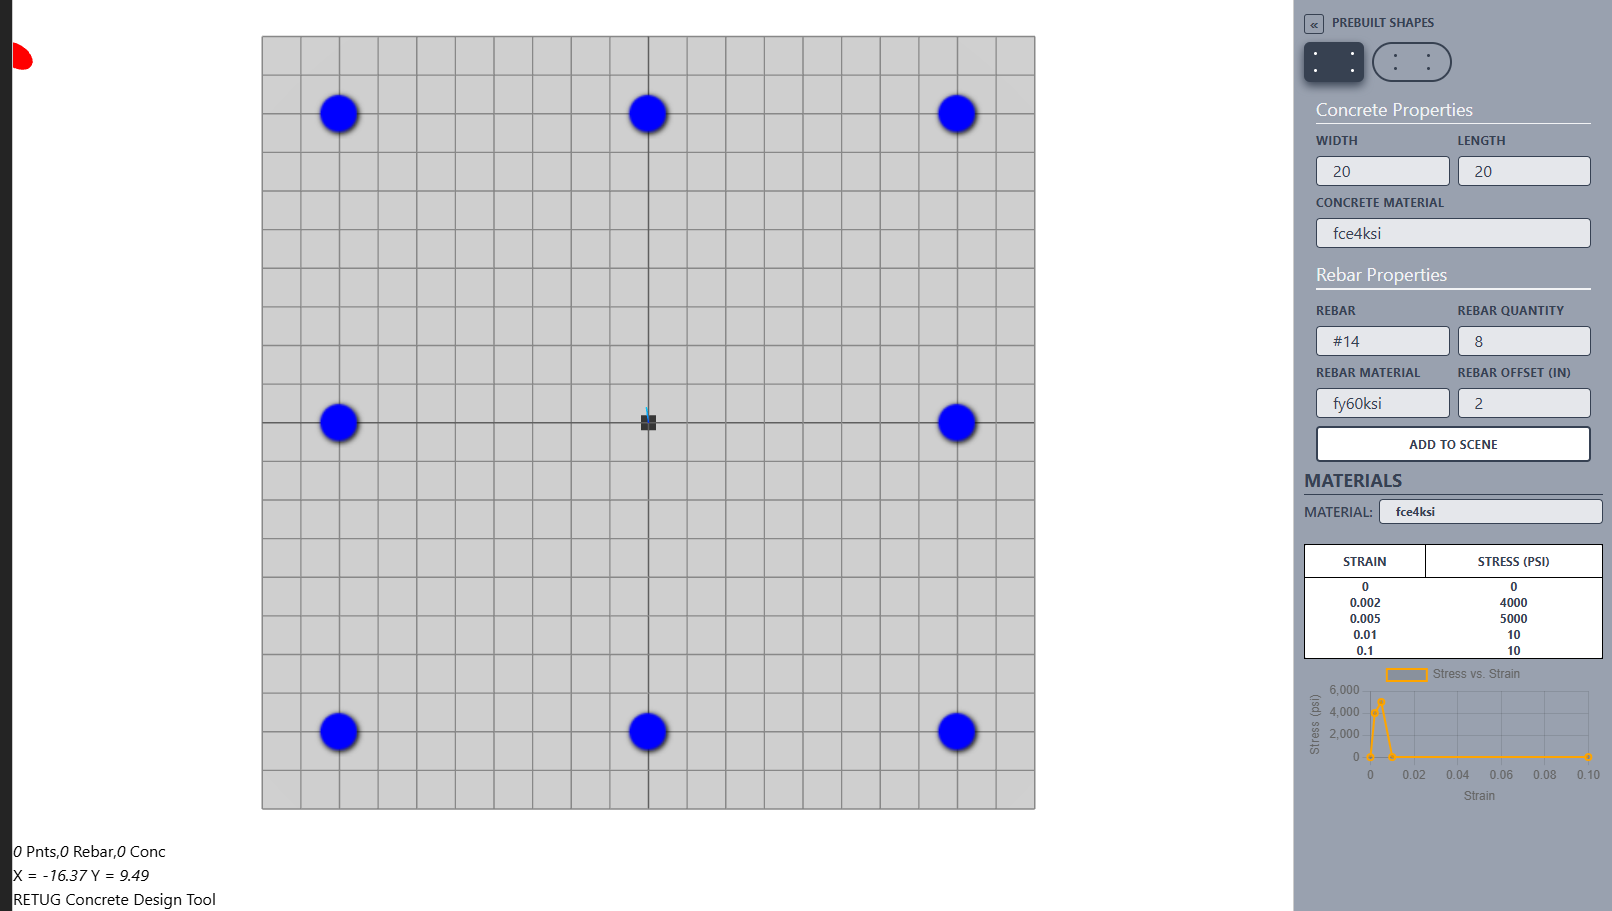
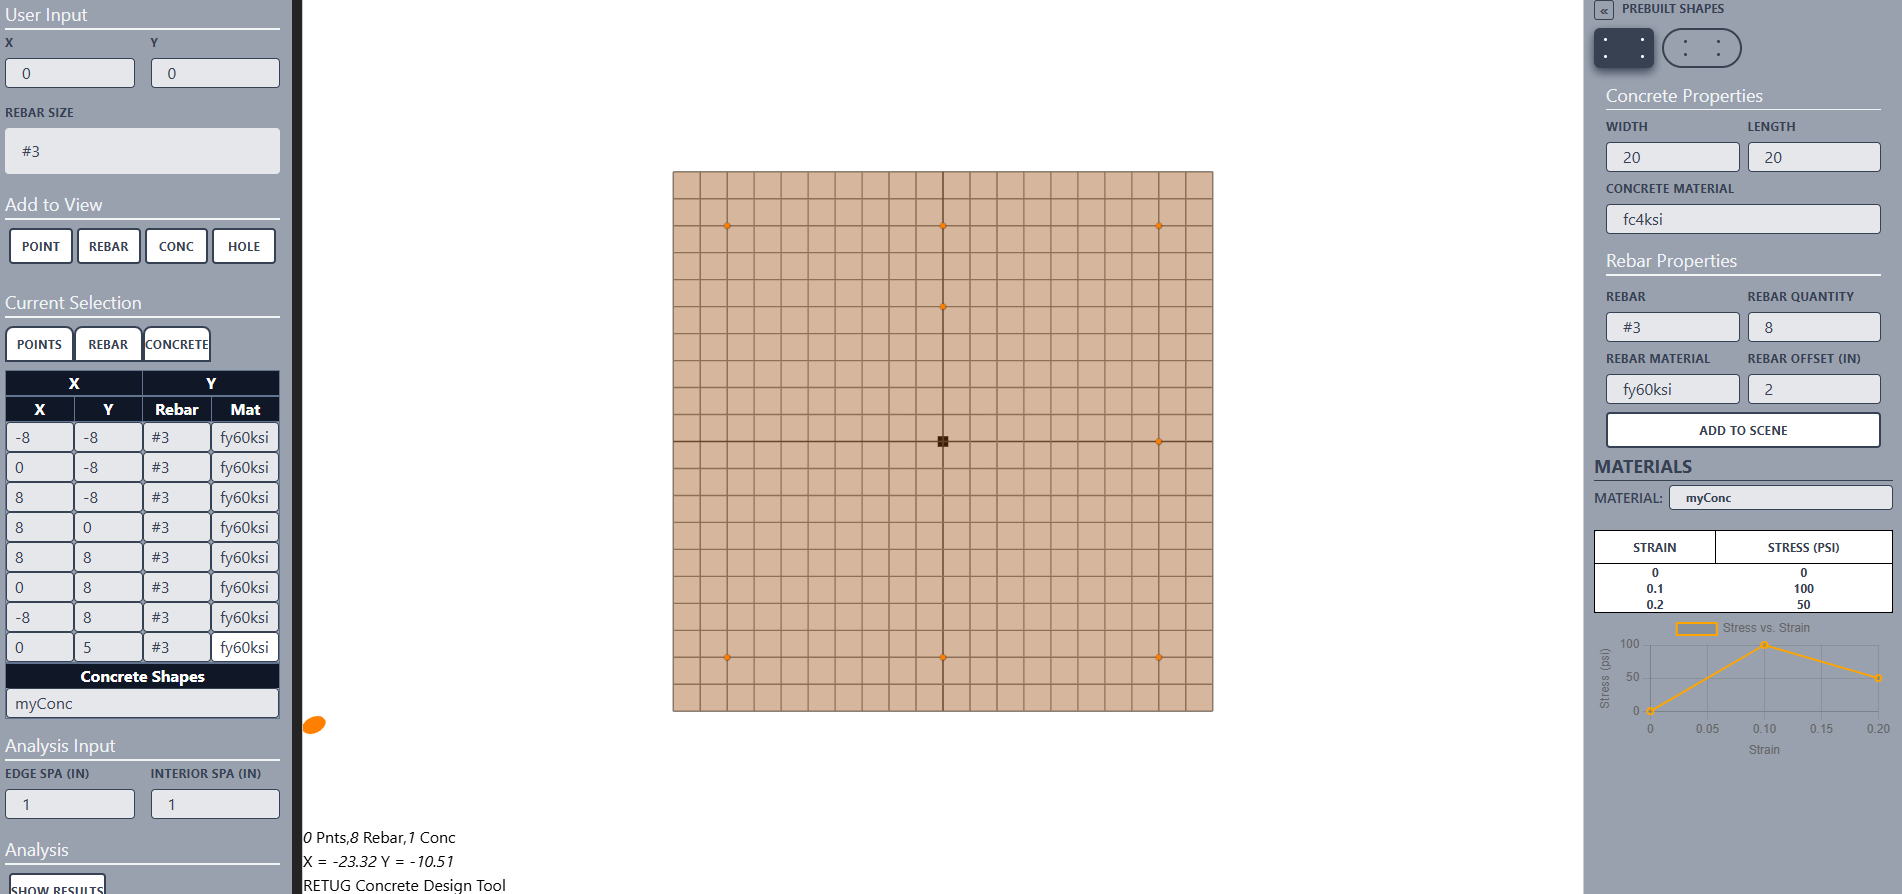
adding materials to rebar and concrete

diff --git a/src/threeJSscenefunctions.js b/src/threeJSscenefunctions.js
@@ -157,10 +157,6 @@ export function addRebar(x, y, barSize, scene, sprite) {
 
     // ✅ Add to the scene
     scene.add(tempDot);
-
-    console.log(`Rebar added at (${x}, ${y}) with bar size #${barSize} and material ${selectedMaterialName}`);
-    console.log("Material Properties:", materialObject);
-
     return tempDot; // ✅ Return the new rebar object
 }
 
@@ -253,7 +249,13 @@ export function setupMouseInteractions(threeJSDiv) {
     function resetSelections() {
         for (const pnt of allSelectedPnts) pnt.material.color.set(0x00FF00);
         for (const pnt of allSelectedRebar) pnt.material.color.setHSL(0.0, 0.0, 0.5);
-        for (const pnt of allSelectedConc) pnt.material.color.set(0xE5E5E5);
+        
+        for (const concShape of allSelectedConc) {
+            console.log('your concrete shape is a instance of concrete shape?', concShape instanceof ConcShape )
+            if (concShape instanceof ConcShape && concShape.mesh && concShape.mesh.material) { // ✅ Ensure valid `ConcShape`
+                concShape.mesh.material.color.set(0xE5E5E5);
+            }
+        }
         allSelectedPnts = [];
         allSelectedRebar = [];
         allSelectedConc = [];
@@ -266,8 +268,13 @@ export function setupMouseInteractions(threeJSDiv) {
                 obj.material.color.set(0xFF7F00);
             } else if (obj.isRebar === true && obj.constructor.name === "Points") {
                 obj.material.color.set(0xFF7F00);
-            } else if (obj.constructor.name === "Mesh") {
+            }
+            else if (obj.constructor.name === "Mesh") {
                 obj.material.color.set(0xFF7F00);
+
+            } 
+            else if (obj instanceof ConcShape) {
+                obj.mesh.material.color.set(0xFF7F00);
             }
         }
     }
@@ -278,8 +285,11 @@ export function setupMouseInteractions(threeJSDiv) {
                 allSelectedPnts.push(obj);
             } else if (obj.isRebar === true && obj.constructor.name === "Points") {
                 allSelectedRebar.push(obj);
-            } else if (obj.constructor.name === "Mesh") {
-                allSelectedConc.push(obj);
+            } else if (obj.constructor.name === "Mesh" && obj.userData.concShape) {
+                console.log('Your selected mesh contains ConcShape:', obj.userData.concShape);
+                console.log(obj)
+                // allSelectedConc.push(obj);
+                allSelectedConc.push(obj.userData.concShape);
             }
         }
         updateTables();
@@ -329,8 +339,27 @@ export function setupMouseInteractions(threeJSDiv) {
             rebarTable.appendChild(row);
         });
 
+        // ✅ Update concrete table
+        const concTable = document.getElementById("concData");
+        concTable.innerHTML = "";
+        allSelectedConc.forEach(concShape => {
+            let row = document.createElement("tr");
+
+            let materialDropdown = createMaterialDropdown(concShape.material.name, newMaterial => {
+                concShape.material = defaultMaterials.find(mat => mat.name === newMaterial) || concShape.material;
+                updateTables();
+                
+            });
+
+            row.appendChild(wrapInTableCell(materialDropdown)); // ✅ Add material dropdown for concrete
+            concTable.appendChild(row);
+        });
+
+
+
         document.getElementById("pointsSelected").innerText = allSelectedPnts.length;
         document.getElementById("rebarSelected").innerText = allSelectedRebar.length;
+        document.getElementById("concSelected").innerText = allSelectedConc.length;
     }
 
     function createInputField(value, callback) {

diff --git a/src/concShape.js b/src/concShape.js
@@ -55,5 +55,6 @@ export class ConcShape {
         const geometry = new THREE.ShapeGeometry(this.baseshape);
         const meshMaterial = new THREE.MeshStandardMaterial({ color: 0xE5E5E5, transparent: true, opacity: 0.4 });
         this.mesh = new THREE.Mesh(geometry, meshMaterial);
+        this.mesh.userData.concShape = this; // ✅ Store ConcShape instance in the mesh
     }
 }

diff --git a/src/main.js b/src/main.js
@@ -72,7 +72,7 @@ document.addEventListener("DOMContentLoaded", () => {
           console.warn("Texture not yet loaded, please wait.");
           return;
       }
-      SceneFunctions.addShapeToScene(scene, sprite);
+      addShapeToScene(scene, sprite);
   });
 });
 
